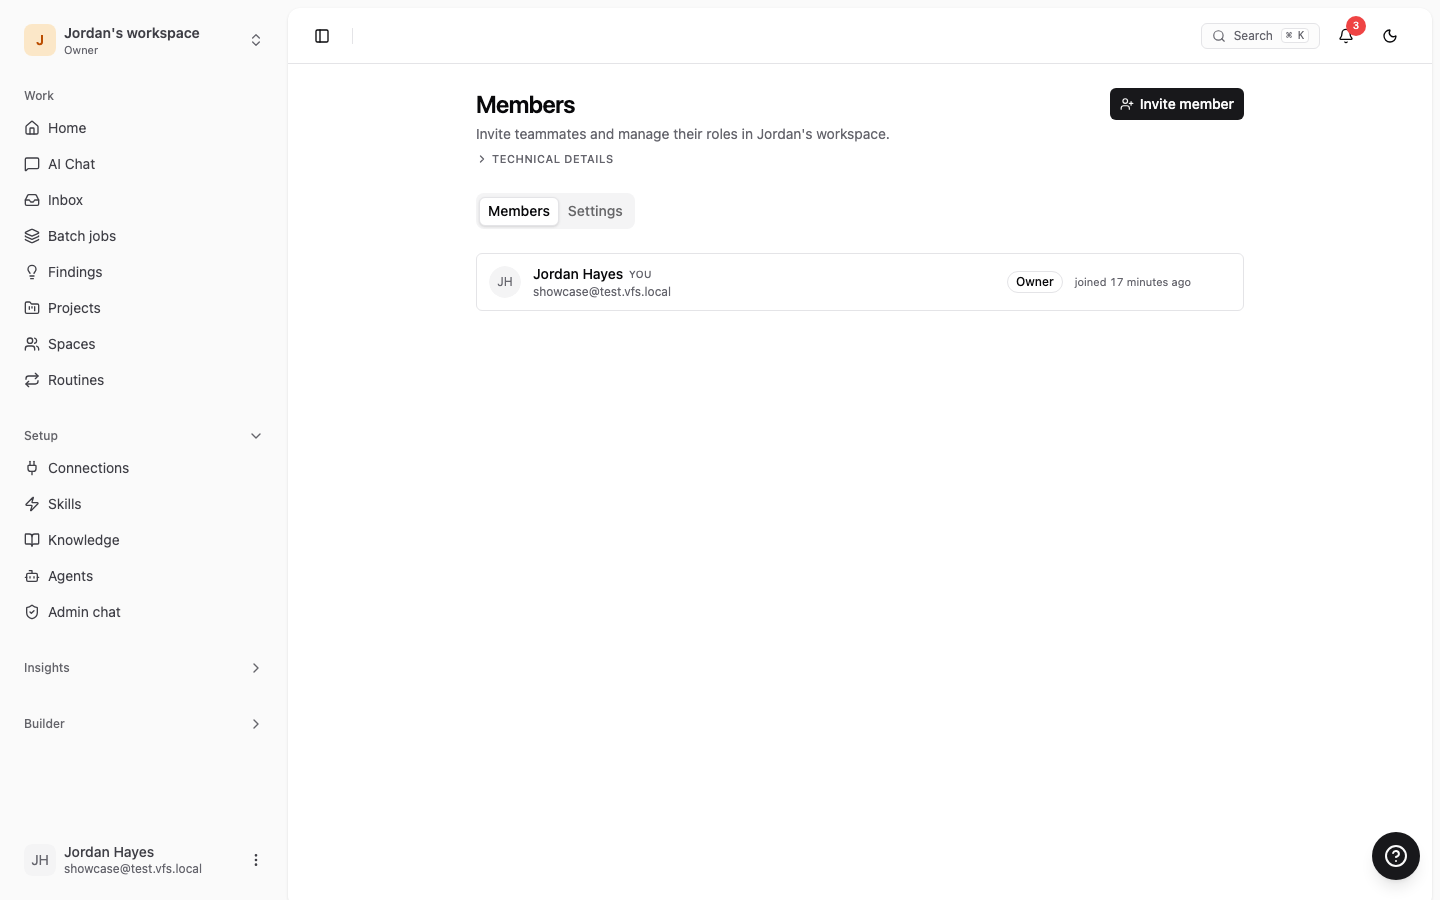
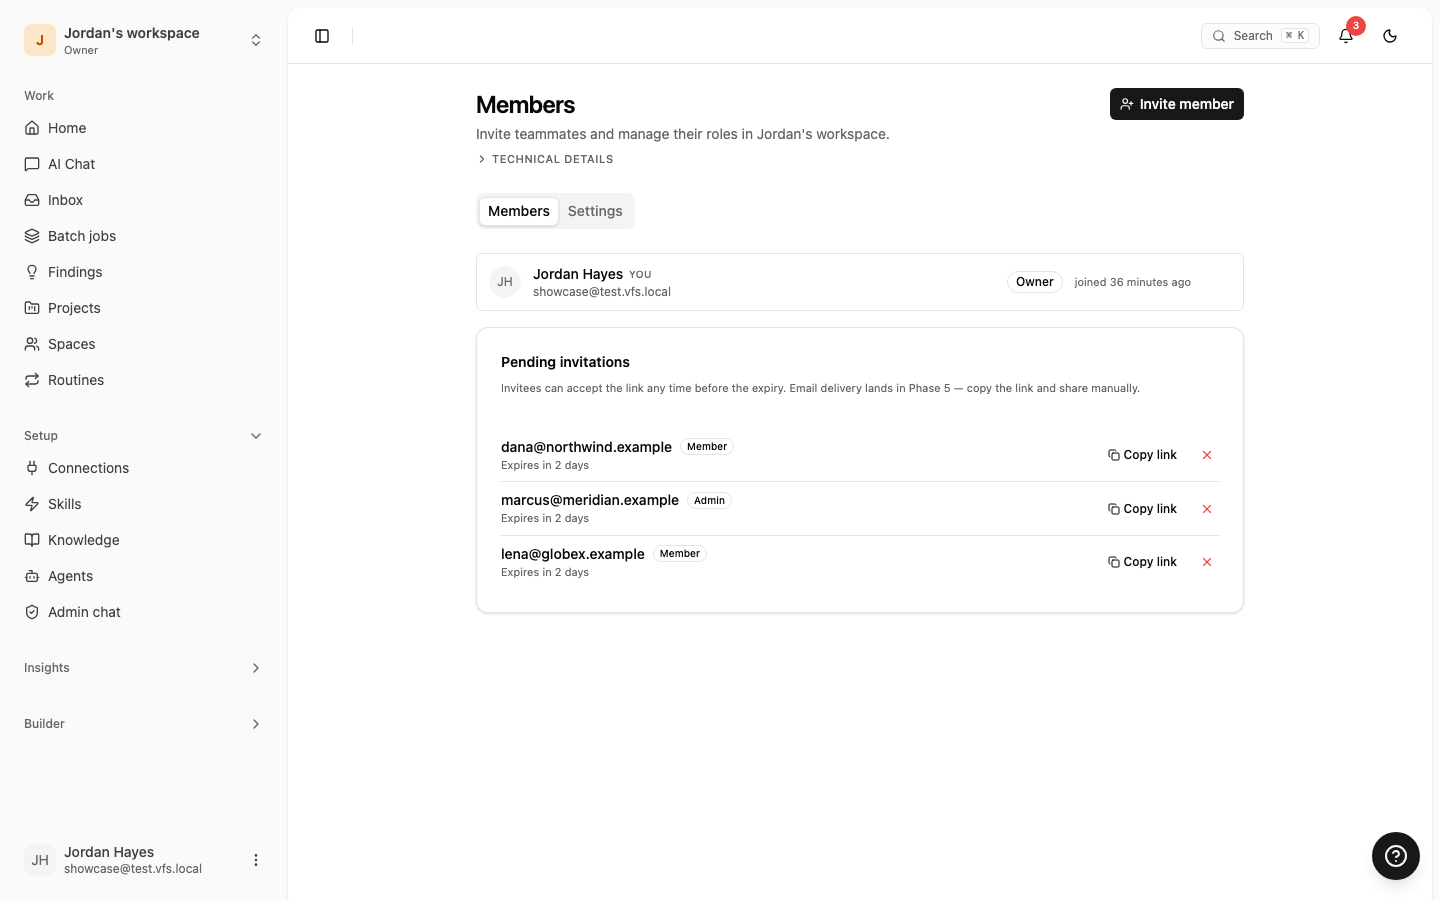
feat(assets): 9:16 mobile cut, R2 hosting, fuller org demo
Follow-ups on the asset library:

- record-tour.mjs takes WALKABOUT_VIEWPORT / WALKABOUT_MOBILE / WALKABOUT_OUT —
  recorded a 9:16 vertical hero (full-tour-mobile.mp4, 390×844) for Shorts/Reels;
  the mobile layout + spotlight + tour card all render correctly at phone width.
  Vertical home GIF committed (assets/gifs/mobile-home.gif).
- Hosted the hero + 13 module shorts + the mobile cut on a public R2 bucket
  (pub-…r2.dev). README home GIF is now a clickable poster → the hosted narrated
  video; manifest.json carries public_base + per-asset URLs for the website.
- Fuller Org demo: seed-showcase.mjs now invites 3 org members (CSRF Origin
  header required), so the Members page shows pending invitations. Stills
  re-shot — organizations.png now populated.

Videos stay gitignored (served from R2); GIFs + stills committed.

diff --git a/README.md b/README.md
@@ -12,9 +12,9 @@
 
 ### Take the guided tour
 
-The starter ships **Walkabout** — it demos itself. Below is the home dashboard with the narration-synced moving spotlight; the full **[3-minute narrated tour](https://vite-flare-starter.webfonts.workers.dev)** walks all 13 modules end to end (sign in and it offers the tour, or hit the Guide button bottom-right).
+The starter ships **Walkabout** — it demos itself. Below is the home dashboard with the narration-synced moving spotlight. **▶ [Watch the full 3-minute narrated tour](https://pub-fe51e0b1ecfb48d896a06618f6da1ed2.r2.dev/full-tour.mp4)** (with sound) — it walks all 13 modules end to end. Or sign in to the [live demo](https://vite-flare-starter.webfonts.workers.dev) and it offers the tour itself.
 
-![Home — the workspace dashboard with the moving spotlight drawing around each section as the voice describes it](./assets/gifs/home.gif)
+[![Home — the workspace dashboard with the moving spotlight drawing around each section as the voice describes it. Click to watch the full narrated tour.](./assets/gifs/home.gif)](https://pub-fe51e0b1ecfb48d896a06618f6da1ed2.r2.dev/full-tour.mp4)
 
 Every module, with real seeded data — no mockups:
 
@@ -27,7 +27,7 @@ Every module, with real seeded data — no mockups:
 | ![Agents](./assets/gifs/agents.gif) | ![Activity](./assets/gifs/activity.gif) |
 | **Agents** — self-describing stateful agents with memory, tools, and an approval queue. | **Activity** — the audit trail; every action with stats by type. |
 
-More GIFs, the per-module shorts, clean stills, and the asset manifest live in [`assets/`](./assets/). Regenerate the whole set after any change: `node .jez/scripts/record-tour.mjs` → `slice-modules.mjs` → `make-gifs.mjs` (stale demos are a choice).
+More GIFs, the 13 per-module shorts, clean stills, a **9:16 vertical cut** (for Shorts/Reels), and the asset manifest live in [`assets/`](./assets/) — the videos are hosted on R2 (`manifest.json` has the URLs). Regenerate the whole set after any change: `seed-showcase.mjs` → `record-tour.mjs` → `slice-modules.mjs` → `make-gifs.mjs` → `shoot-stills.mjs` (stale demos are a choice).
 
 ### Spaces — multi-user, multi-agent rooms
 
